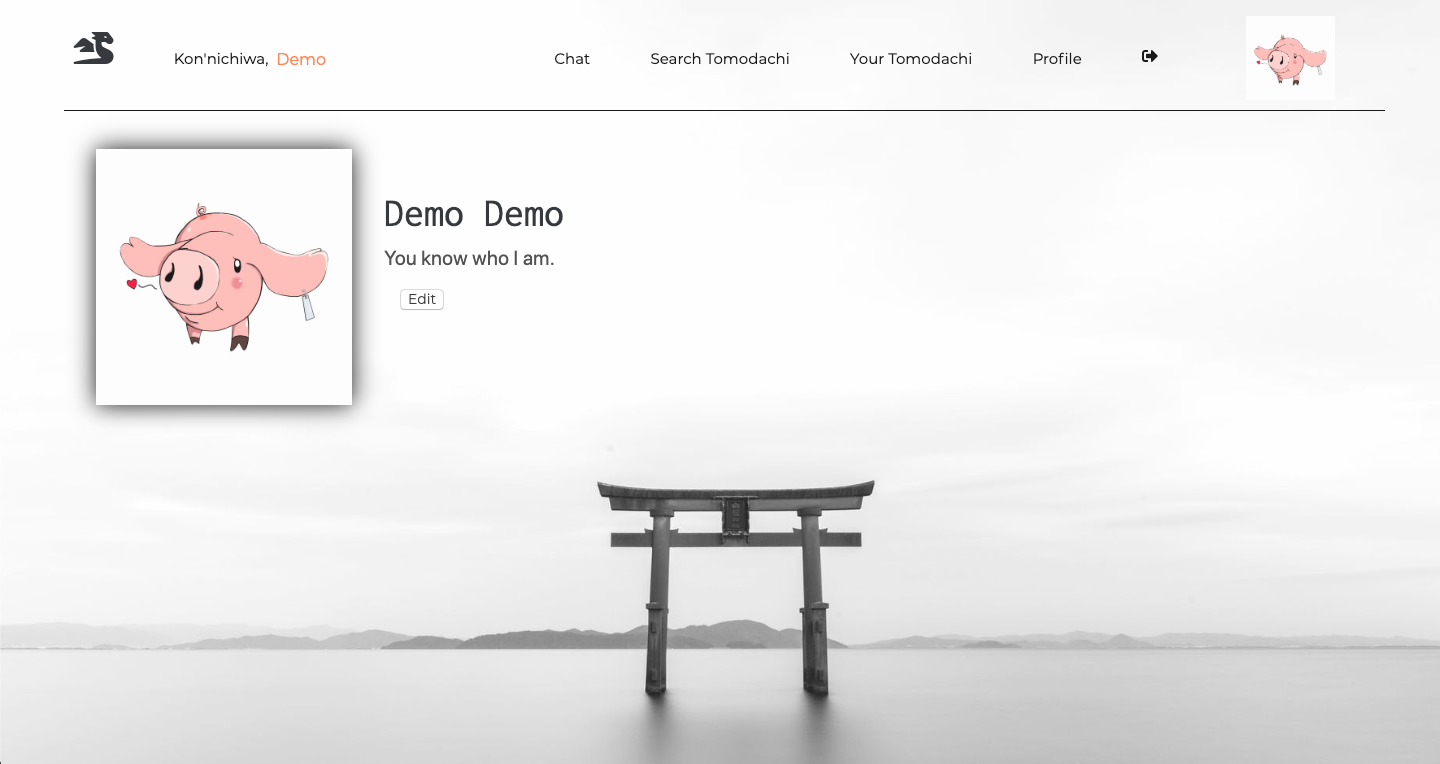
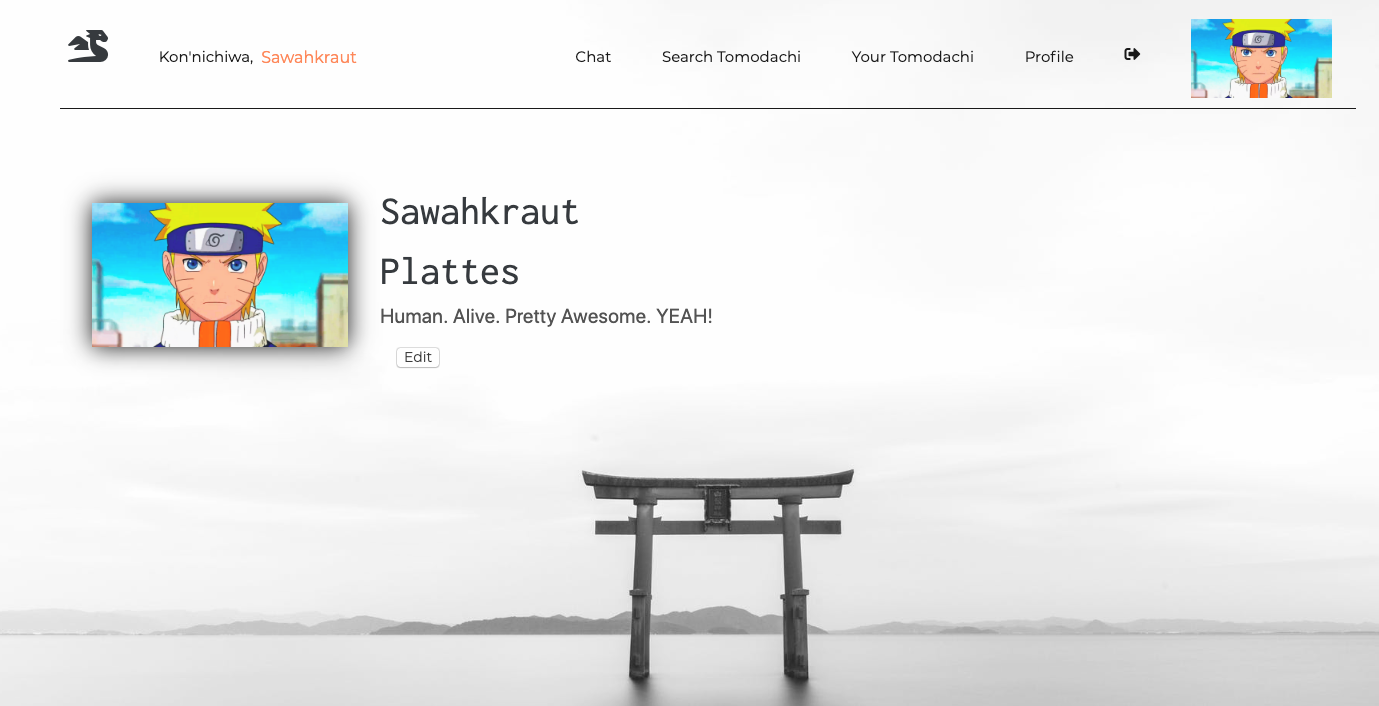
added randomly generated users

diff --git a/readme.md b/readme.md
@@ -16,3 +16,5 @@ Technologies/packages used: socket.io, redux, postgres, express, node, AWS, reac
 ![Screenshot](/screenshots/screenshot2.png?raw=true "Screenshot 2")
 
 ![Screenshot](/screenshots/screenshot3.png?raw=true "Screenshot 3")
+
+![Screenshot](/screenshots/screenshot4.png?raw=true "Screenshot 4")
